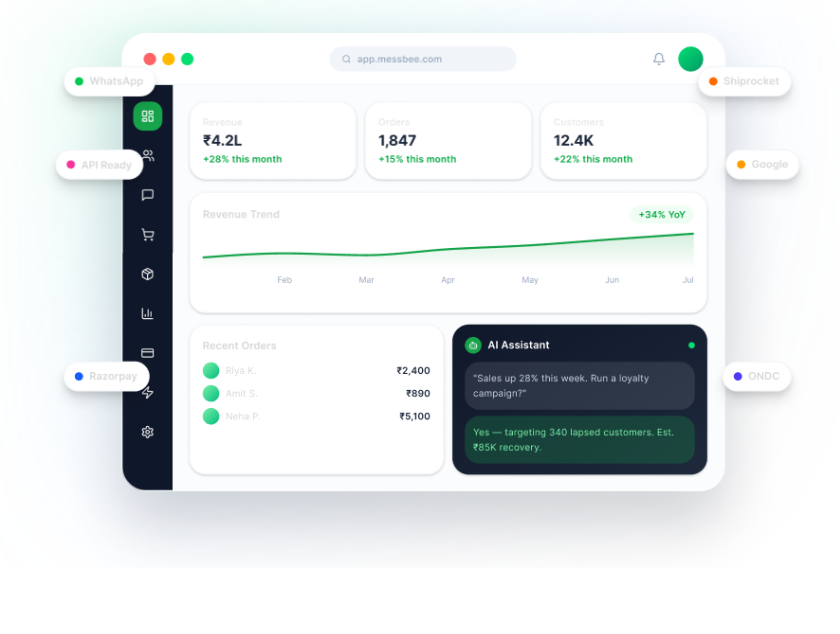
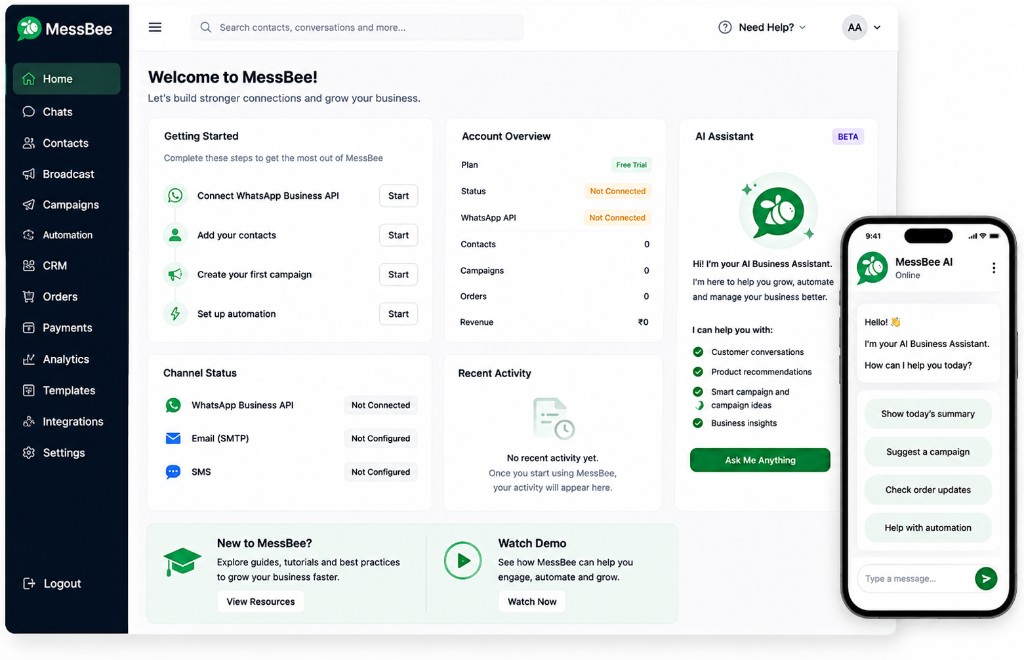
fixED IMAGE

diff --git a/src/components/LandingPage.jsx b/src/components/LandingPage.jsx
@@ -3,7 +3,7 @@ import React, { useState, useEffect, useRef } from "react";
 import Footer from "./Footer";
 import { useNavigate } from "react-router-dom";
 import defaultLogo from "../assets/logo.jpeg";
-import heroDashboard from "../assets/hero-dashboard.png";
+import heroDashboard from "../assets/hero-messscale.png";
 import aiRobot from "../assets/ai_robot_new.png";
 import howItWorksPerson from "../assets/how_it_works_person.jpg";
 import chooseUsWoman from "../assets/choose_us_woman_nobg.png";
@@ -756,328 +756,28 @@ const LandingPage = () => {
             Everything your business needs to connect, engage and grow at scale.
           </p>
 
-          {/* Desktop Dashboard Window Container */}
+          {/* Desktop Dashboard Image */}
           <div style={{
             position: "relative",
             margin: "0 auto",
             width: "100%",
-            maxWidth: 1080,
-            transform: "scale(0.85)",
-            transformOrigin: "top center",
-            marginBottom: -80
+            maxWidth: 840,
+            display: "flex",
+            justifyContent: "center",
+            alignItems: "center"
           }}>
-            <div style={{
-              background: "#FFFFFF",
-              borderRadius: 16,
-              border: "1px solid #E2E8F0",
-              boxShadow: "0 25px 50px -12px rgba(0, 0, 0, 0.12), 0 4px 12px rgba(0,0,0,0.03)",
-              display: "flex",
-              overflow: "hidden",
-              minHeight: 520,
-              width: "100%",
-              textAlign: "left"
-            }}>
-              
-              {/* Dark Left Sidebar */}
-              <div style={{
-                width: 170,
-                background: "#0F172A",
-                padding: "18px 10px",
-                display: "flex",
-                flexDirection: "column",
-                flexShrink: 0,
-                color: "#94A3B8",
-                fontSize: 11
-              }}>
-                {/* Logo inside sidebar */}
-                <div style={{ display: "flex", alignItems: "center", gap: 8, padding: "0 8px 16px 8px", borderBottom: "1px solid #1E293B", marginBottom: 12 }}>
-                  <div style={{ width: 22, height: 22, background: "#16A34A", borderRadius: 6, display: "flex", alignItems: "center", justifyContent: "center" }}>
-                    <svg width="14" height="14" viewBox="0 0 24 24" fill="#FFF"><path d="M12 2C6.48 2 2 6.48 2 12c0 2.17.7 4.17 1.88 5.8L2.8 21.6l3.92-.88C8.36 21.56 10.12 22 12 22c5.52 0 10-4.48 10-10S17.52 2 12 2z"/></svg>
-                  </div>
-                  <span style={{ fontSize: 15, fontWeight: 800, color: "#FFFFFF", letterSpacing: "-0.3px" }}>MessBee</span>
-                </div>
-
-                {/* Sidebar Navigation Items */}
-                <div style={{ display: "flex", flexDirection: "column", gap: 2, flex: 1, overflowY: "auto" }}>
-                  {[
-                    { label: "Home", active: true, icon: <path d="m3 9 9-7 9 7v11a2 2 0 0 1-2 2H5a2 2 0 0 1-2-2z"/> },
-                    { label: "Chats", icon: <path d="M21 15a2 2 0 0 1-2 2H7l-4 4V5a2 2 0 0 1 2-2h14a2 2 0 0 1 2 2z"/> },
-                    { label: "Contacts", icon: <><path d="M16 21v-2a4 4 0 0 0-4-4H6a4 4 0 0 0-4 4v2"/><circle cx="9" cy="7" r="4"/></> },
-                    { label: "Broadcast", icon: <path d="m3 11 18-5v12L3 13v-2z"/> },
-                    { label: "Campaigns", icon: <><polygon points="12 2 15.09 8.26 22 9.27 17 14.14 18.18 21.02 12 17.77 5.82 21.02 7 14.14 2 9.27 8.91 8.26 12 2"/></> },
-                    { label: "Automation", icon: <path d="M13 2L3 14h9l-1 8 10-12h-9l1-8z"/> },
-                    { label: "CRM", icon: <rect x="3" y="4" width="18" height="16" rx="2"/> },
-                    { label: "Orders", icon: <path d="M6 2 3 6v14a2 2 0 0 0 2 2h14a2 2 0 0 0 2-2V6l-3-4Z"/> },
-                    { label: "Payments", icon: <rect x="2" y="5" width="20" height="14" rx="2"/> },
-                    { label: "Analytics", icon: <><line x1="18" y1="20" x2="18" y2="10"/><line x1="12" y1="20" x2="12" y2="4"/><line x1="6" y1="20" x2="6" y2="14"/></> },
-                    { label: "Templates", icon: <path d="M14.5 2H6a2 2 0 0 0-2 2v16a2 2 0 0 0 2 2h12a2 2 0 0 0 2-2V7.5L14.5 2z"/> },
-                    { label: "Integrations", icon: <rect x="3" y="3" width="7" height="7"/> },
-                    { label: "Settings", icon: <circle cx="12" cy="12" r="3"/> }
-                  ].map((item, i) => (
-                    <div
-                      key={i}
-                      style={{
-                        display: "flex",
-                        alignItems: "center",
-                        gap: 10,
-                        padding: "7px 12px",
-                        borderRadius: 6,
-                        background: item.active ? "#16A34A" : "transparent",
-                        color: item.active ? "#FFFFFF" : "#94A3B8",
-                        fontWeight: item.active ? 700 : 500,
-                        cursor: "pointer"
-                      }}
-                    >
-                      <svg width="13" height="13" viewBox="0 0 24 24" fill="none" stroke="currentColor" strokeWidth="2" strokeLinecap="round" strokeLinejoin="round">
-                        {item.icon}
-                      </svg>
-                      <span>{item.label}</span>
-                    </div>
-                  ))}
-                </div>
-
-                {/* Bottom logout */}
-                <div style={{ display: "flex", alignItems: "center", gap: 8, padding: "12px 10px 0 10px", borderTop: "1px solid #1E293B", color: "#EF4444", cursor: "pointer" }}>
-                  <svg width="13" height="13" viewBox="0 0 24 24" fill="none" stroke="currentColor" strokeWidth="2"><path d="M9 21H5a2 2 0 0 1-2-2V5a2 2 0 0 1 2-2h4"/><polyline points="16 17 21 12 16 7"/><line x1="21" y1="12" x2="9" y2="12"/></svg>
-                  <span style={{ fontWeight: 600 }}>Logout</span>
-                </div>
-              </div>
-
-              {/* Main Content Area */}
-              <div style={{ flex: 1, background: "#F8FAFC", display: "flex", flexDirection: "column", minWidth: 0 }}>
-                
-                {/* Dashboard Header Bar */}
-                <div style={{ background: "#FFFFFF", padding: "12px 20px", borderBottom: "1px solid #E2E8F0", display: "flex", alignItems: "center", justifyContent: "space-between" }}>
-                  <div style={{ display: "flex", alignItems: "center", gap: 12, flex: 1, maxWidth: 360 }}>
-                    <svg width="15" height="15" viewBox="0 0 24 24" fill="none" stroke="#64748B" strokeWidth="2"><line x1="3" y1="12" x2="21" y2="12"/><line x1="3" y1="6" x2="21" y2="6"/><line x1="3" y1="18" x2="21" y2="18"/></svg>
-                    <div style={{ background: "#F1F5F9", borderRadius: 8, padding: "6px 12px", display: "flex", alignItems: "center", gap: 8, flex: 1 }}>
-                      <svg width="13" height="13" viewBox="0 0 24 24" fill="none" stroke="#94A3B8" strokeWidth="2"><circle cx="11" cy="11" r="8"/><line x1="21" y1="21" x2="16.65" y2="16.65"/></svg>
-                      <span style={{ fontSize: 11, color: "#94A3B8" }}>Search contacts, conversations and more...</span>
-                    </div>
-                  </div>
-
-                  <div style={{ display: "flex", alignItems: "center", gap: 14 }}>
-                    <div style={{ fontSize: 11, color: "#475569", fontWeight: 600, display: "flex", alignItems: "center", gap: 4 }}>
-                      <svg width="13" height="13" viewBox="0 0 24 24" fill="none" stroke="currentColor" strokeWidth="2"><circle cx="12" cy="12" r="10"/><path d="M9.09 9a3 3 0 0 1 5.83 1c0 2-3 3-3 3"/><line x1="12" y1="17" x2="12.01" y2="17"/></svg>
-                      Need Help? ▾
-                    </div>
-                    <div style={{ width: 28, height: 28, borderRadius: "50%", background: "#E2E8F0", color: "#334155", fontSize: 10.5, fontWeight: 700, display: "flex", alignItems: "center", justifyContent: "center" }}>
-                      AA
-                    </div>
-                  </div>
-                </div>
-
-                {/* Dashboard Body Canvas */}
-                <div style={{ padding: "18px", overflowY: "auto", display: "flex", flexDirection: "column", gap: 14 }}>
-                  
-                  {/* Greeting */}
-                  <div>
-                    <div style={{ fontSize: 17, fontWeight: 800, color: "#0F172A" }}>Welcome to MessBee!</div>
-                    <div style={{ fontSize: 11.5, color: "#64748B" }}>Let's build stronger connections and grow your business.</div>
-                  </div>
-
-                  {/* 3-Column Top Grid */}
-                  <div style={{ display: "grid", gridTemplateColumns: "1.1fr 1fr 1fr", gap: 12 }}>
-                    
-                    {/* Getting Started */}
-                    <div style={{ background: "#FFFFFF", borderRadius: 10, border: "1px solid #E2E8F0", padding: "14px", display: "flex", flexDirection: "column", gap: 10 }}>
-                      <div>
-                        <div style={{ fontSize: 12, fontWeight: 700, color: "#0F172A" }}>Getting Started</div>
-                        <div style={{ fontSize: 9.5, color: "#94A3B8" }}>Complete these steps to get the most out of MessBee</div>
-                      </div>
-
-                      {[
-                        { icon: "💬", title: "Connect WhatsApp Business API" },
-                        { icon: "👥", title: "Add your contacts" },
-                        { icon: "📢", title: "Create your first campaign" },
-                        { icon: "⚡", title: "Set up automation" }
-                      ].map((step, idx) => (
-                        <div key={idx} style={{ display: "flex", alignItems: "center", justifyContent: "space-between", padding: "5px 0", borderBottom: idx < 3 ? "1px solid #F1F5F9" : "none" }}>
-                          <div style={{ display: "flex", alignItems: "center", gap: 8 }}>
-                            <span style={{ fontSize: 13 }}>{step.icon}</span>
-                            <span style={{ fontSize: 10.5, fontWeight: 600, color: "#334155" }}>{step.title}</span>
-                          </div>
-                          <span style={{ fontSize: 9.5, fontWeight: 700, color: "#16A34A", background: "#ECFDF5", padding: "2px 8px", borderRadius: 4, border: "1px solid #A7F3D0" }}>Start</span>
-                        </div>
-                      ))}
-                    </div>
-
-                    {/* Account Overview */}
-                    <div style={{ background: "#FFFFFF", borderRadius: 10, border: "1px solid #E2E8F0", padding: "14px", display: "flex", flexDirection: "column", gap: 8 }}>
-                      <div style={{ fontSize: 12, fontWeight: 700, color: "#0F172A" }}>Account Overview</div>
-                      
-                      <div style={{ display: "flex", flexDirection: "column", gap: 6, fontSize: 10.5 }}>
-                        <div style={{ display: "flex", justifyContent: "space-between" }}>
-                          <span style={{ color: "#64748B" }}>Plan</span>
-                          <span style={{ fontWeight: 700, color: "#16A34A", background: "#ECFDF5", padding: "1px 6px", borderRadius: 3 }}>Free Trial</span>
-                        </div>
-                        <div style={{ display: "flex", justifyContent: "space-between" }}>
-                          <span style={{ color: "#64748B" }}>Status</span>
-                          <span style={{ fontWeight: 700, color: "#F59E0B" }}>Not Connected</span>
-                        </div>
-                        <div style={{ display: "flex", justifyContent: "space-between" }}>
-                          <span style={{ color: "#64748B" }}>WhatsApp API</span>
-                          <span style={{ fontWeight: 700, color: "#F59E0B" }}>Not Connected</span>
-                        </div>
-                        <div style={{ display: "flex", justifyContent: "space-between" }}>
-                          <span style={{ color: "#64748B" }}>Contacts</span>
-                          <span style={{ fontWeight: 700, color: "#0F172A" }}>0</span>
-                        </div>
-                        <div style={{ display: "flex", justifyContent: "space-between" }}>
-                          <span style={{ color: "#64748B" }}>Campaigns</span>
-                          <span style={{ fontWeight: 700, color: "#0F172A" }}>0</span>
-                        </div>
-                        <div style={{ display: "flex", justifyContent: "space-between" }}>
-                          <span style={{ color: "#64748B" }}>Orders</span>
-                          <span style={{ fontWeight: 700, color: "#0F172A" }}>0</span>
-                        </div>
-                        <div style={{ display: "flex", justifyContent: "space-between" }}>
-                          <span style={{ color: "#64748B" }}>Revenue</span>
-                          <span style={{ fontWeight: 700, color: "#0F172A" }}>₹0</span>
-                        </div>
-                      </div>
-                    </div>
-
-                    {/* AI Assistant Box */}
-                    <div style={{ background: "#FFFFFF", borderRadius: 10, border: "1px solid #E2E8F0", padding: "14px", display: "flex", flexDirection: "column", alignItems: "center", textAlign: "center", gap: 8, position: "relative" }}>
-                      <div style={{ display: "flex", justifyContent: "space-between", width: "100%", alignItems: "center" }}>
-                        <span style={{ fontSize: 12, fontWeight: 700, color: "#0F172A" }}>AI Assistant</span>
-                        <span style={{ fontSize: 8.5, fontWeight: 800, color: "#7C3AED", background: "#F5F3FF", padding: "2px 6px", borderRadius: 4, border: "1px solid #DDD6FE" }}>BETA</span>
-                      </div>
-
-                      <div style={{ width: 40, height: 40, borderRadius: "50%", background: "#DCFCE7", display: "flex", alignItems: "center", justifyContent: "center", margin: "2px 0" }}>
-                        <svg width="24" height="24" viewBox="0 0 24 24" fill="#16A34A">
-                          <path d="M12 2C6.48 2 2 6.48 2 12c0 2.17.7 4.17 1.88 5.8L2.8 21.6l3.92-.88C8.36 21.56 10.12 22 12 22c5.52 0 10-4.48 10-10S17.52 2 12 2z"/>
-                        </svg>
-                      </div>
-
-                      <div style={{ fontSize: 9.5, color: "#475569", lineHeight: 1.3 }}>
-                        Hi! I'm your AI Business Assistant. I'm here to help you grow.
-                      </div>
-
-                      <div style={{ textAlign: "left", width: "100%", fontSize: 9, color: "#64748B", display: "flex", flexDirection: "column", gap: 3 }}>
-                        <div>✔ Customer conversations</div>
-                        <div>✔ Product recommendations</div>
-                        <div>✔ Order management</div>
-                        <div>✔ Campaign ideas</div>
-                      </div>
-
-                      <button style={{ width: "100%", background: "#16A34A", color: "#FFF", border: "none", borderRadius: 6, padding: "7px", fontSize: 10, fontWeight: 700, cursor: "pointer", marginTop: "auto" }}>
-                        Ask Me Anything
-                      </button>
-                    </div>
-
-                  </div>
-
-                  {/* 2-Column Bottom Grid */}
-                  <div style={{ display: "grid", gridTemplateColumns: "1.1fr 1.9fr", gap: 12 }}>
-                    
-                    {/* Channel Status */}
-                    <div style={{ background: "#FFFFFF", borderRadius: 10, border: "1px solid #E2E8F0", padding: "14px", display: "flex", flexDirection: "column", gap: 8 }}>
-                      <div style={{ fontSize: 11.5, fontWeight: 700, color: "#0F172A" }}>Channel Status</div>
-                      <div style={{ display: "flex", flexDirection: "column", gap: 6, fontSize: 10 }}>
-                        <div style={{ display: "flex", justifyContent: "space-between", alignItems: "center" }}>
-                          <span style={{ display: "flex", alignItems: "center", gap: 6, color: "#334155" }}>
-                            <span style={{ color: "#25D366" }}>●</span> WhatsApp Business API
-                          </span>
-                          <span style={{ color: "#94A3B8" }}>Not Connected</span>
-                        </div>
-                        <div style={{ display: "flex", justifyContent: "space-between", alignItems: "center" }}>
-                          <span style={{ display: "flex", alignItems: "center", gap: 6, color: "#334155" }}>
-                            <span style={{ color: "#3B82F6" }}>●</span> Email (SMTP)
-                          </span>
-                          <span style={{ color: "#94A3B8" }}>Not Configured</span>
-                        </div>
-                        <div style={{ display: "flex", justifyContent: "space-between", alignItems: "center" }}>
-                          <span style={{ display: "flex", alignItems: "center", gap: 6, color: "#334155" }}>
-                            <span style={{ color: "#60A5FA" }}>●</span> SMS
-                          </span>
-                          <span style={{ color: "#94A3B8" }}>Not Configured</span>
-                        </div>
-                      </div>
-                    </div>
-
-                    {/* Resources & Demo */}
-                    <div style={{ display: "grid", gridTemplateColumns: "1fr 1fr", gap: 10 }}>
-                      <div style={{ background: "#FFFFFF", borderRadius: 10, border: "1px solid #E2E8F0", padding: "12px", display: "flex", flexDirection: "column", justifyContent: "space-between" }}>
-                        <div style={{ display: "flex", alignItems: "center", gap: 6, fontSize: 11, fontWeight: 700, color: "#0F172A" }}>
-                          🎓 New to MessBee?
-                        </div>
-                        <div style={{ fontSize: 9.5, color: "#64748B", margin: "6px 0" }}>Explore guides, tutorials and best practices to grow faster.</div>
-                        <span style={{ fontSize: 9.5, fontWeight: 700, color: "#16A34A", cursor: "pointer" }}>View Resources →</span>
-                      </div>
-
-                      <div style={{ background: "#FFFFFF", borderRadius: 10, border: "1px solid #E2E8F0", padding: "12px", display: "flex", flexDirection: "column", justifyContent: "space-between" }}>
-                        <div style={{ display: "flex", alignItems: "center", gap: 6, fontSize: 11, fontWeight: 700, color: "#0F172A" }}>
-                          ▶ Watch Demo
-                        </div>
-                        <div style={{ fontSize: 9.5, color: "#64748B", margin: "6px 0" }}>See how MessBee helps you engage, automate and grow.</div>
-                        <span style={{ fontSize: 9.5, fontWeight: 700, color: "#16A34A", cursor: "pointer" }}>Watch Now →</span>
-                      </div>
-                    </div>
-
-                  </div>
-
-                </div>
-              </div>
-            </div>
-
-            {/* Floating Mobile Phone Preview */}
-            <div style={{
-              position: "absolute",
-              right: -30,
-              bottom: -30,
-              width: 220,
-              background: "#FFFFFF",
-              borderRadius: 30,
-              border: "5px solid #0F172A",
-              boxShadow: "0 25px 50px rgba(0,0,0,0.3)",
-              overflow: "hidden",
-              zIndex: 10,
-              display: "flex",
-              flexDirection: "column",
-              textAlign: "left"
-            }}>
-              {/* Dynamic Island Notch */}
-              <div style={{ background: "#0F172A", padding: "6px 0 3px 0", display: "flex", justifyContent: "center", alignItems: "center" }}>
-                <div style={{ width: 55, height: 10, background: "#000", borderRadius: 10 }} />
-              </div>
-
-              {/* Mobile Chat Header */}
-              <div style={{ background: "#F8FAFC", padding: "8px 10px", borderBottom: "1px solid #E2E8F0", display: "flex", alignItems: "center", gap: 8 }}>
-                <div style={{ width: 22, height: 22, borderRadius: "50%", background: "#16A34A", display: "flex", alignItems: "center", justifyContent: "center" }}>
-                  <svg width="14" height="14" viewBox="0 0 24 24" fill="#FFF"><path d="M12 2C6.48 2 2 6.48 2 12c0 2.17.7 4.17 1.88 5.8L2.8 21.6l3.92-.88C8.36 21.56 10.12 22 12 22c5.52 0 10-4.48 10-10S17.52 2 12 2z"/></svg>
-                </div>
-                <div>
-                  <div style={{ fontSize: 10.5, fontWeight: 800, color: "#0F172A" }}>MessBee AI</div>
-                  <div style={{ fontSize: 8, color: "#16A34A", fontWeight: 700 }}>● Online</div>
-                </div>
-              </div>
-
-              {/* Chat Canvas */}
-              <div style={{ background: "#FFFFFF", padding: "10px 8px", display: "flex", flexDirection: "column", gap: 8 }}>
-                <div style={{ background: "#F1F5F9", borderRadius: 8, padding: "8px 10px", fontSize: 9.5, color: "#334155", lineHeight: 1.4 }}>
-                  Hello! I'm your AI Business Assistant. How can I help you today?
-                </div>
-
-                <div style={{ display: "flex", flexDirection: "column", gap: 4 }}>
-                  {["Show today's summary", "Suggest a campaign", "Check order updates", "Help with automation"].map((chip, i) => (
-                    <div key={i} style={{ background: "#F8FAFC", border: "1px solid #E2E8F0", borderRadius: 6, padding: "4px 8px", fontSize: 8.5, color: "#475569", fontWeight: 600 }}>
-                      {chip}
-                    </div>
-                  ))}
-                </div>
-              </div>
-
-              {/* Message Input Bar */}
-              <div style={{ background: "#F8FAFC", padding: "6px 8px", borderTop: "1px solid #E2E8F0", display: "flex", alignItems: "center", gap: 6 }}>
-                <div style={{ fontSize: 9, color: "#94A3B8", flex: 1 }}>Type a message...</div>
-                <div style={{ width: 18, height: 18, borderRadius: "50%", background: "#16A34A", display: "flex", alignItems: "center", justifyContent: "center" }}>
-                  <svg width="10" height="10" viewBox="0 0 24 24" fill="#FFF"><polygon points="22 2 15 22 11 13 2 9 22 2"/></svg>
-                </div>
-              </div>
-            </div>
-
+            <img
+              src={heroDashboard}
+              alt="MessBee WhatsApp API Platform"
+              style={{
+                width: "100%",
+                maxWidth: 840,
+                height: "auto",
+                borderRadius: 16,
+                boxShadow: "0 20px 40px -10px rgba(0, 0, 0, 0.1), 0 4px 12px rgba(0,0,0,0.03)",
+                display: "block"
+              }}
+            />
           </div>
         </div>
       </section>
